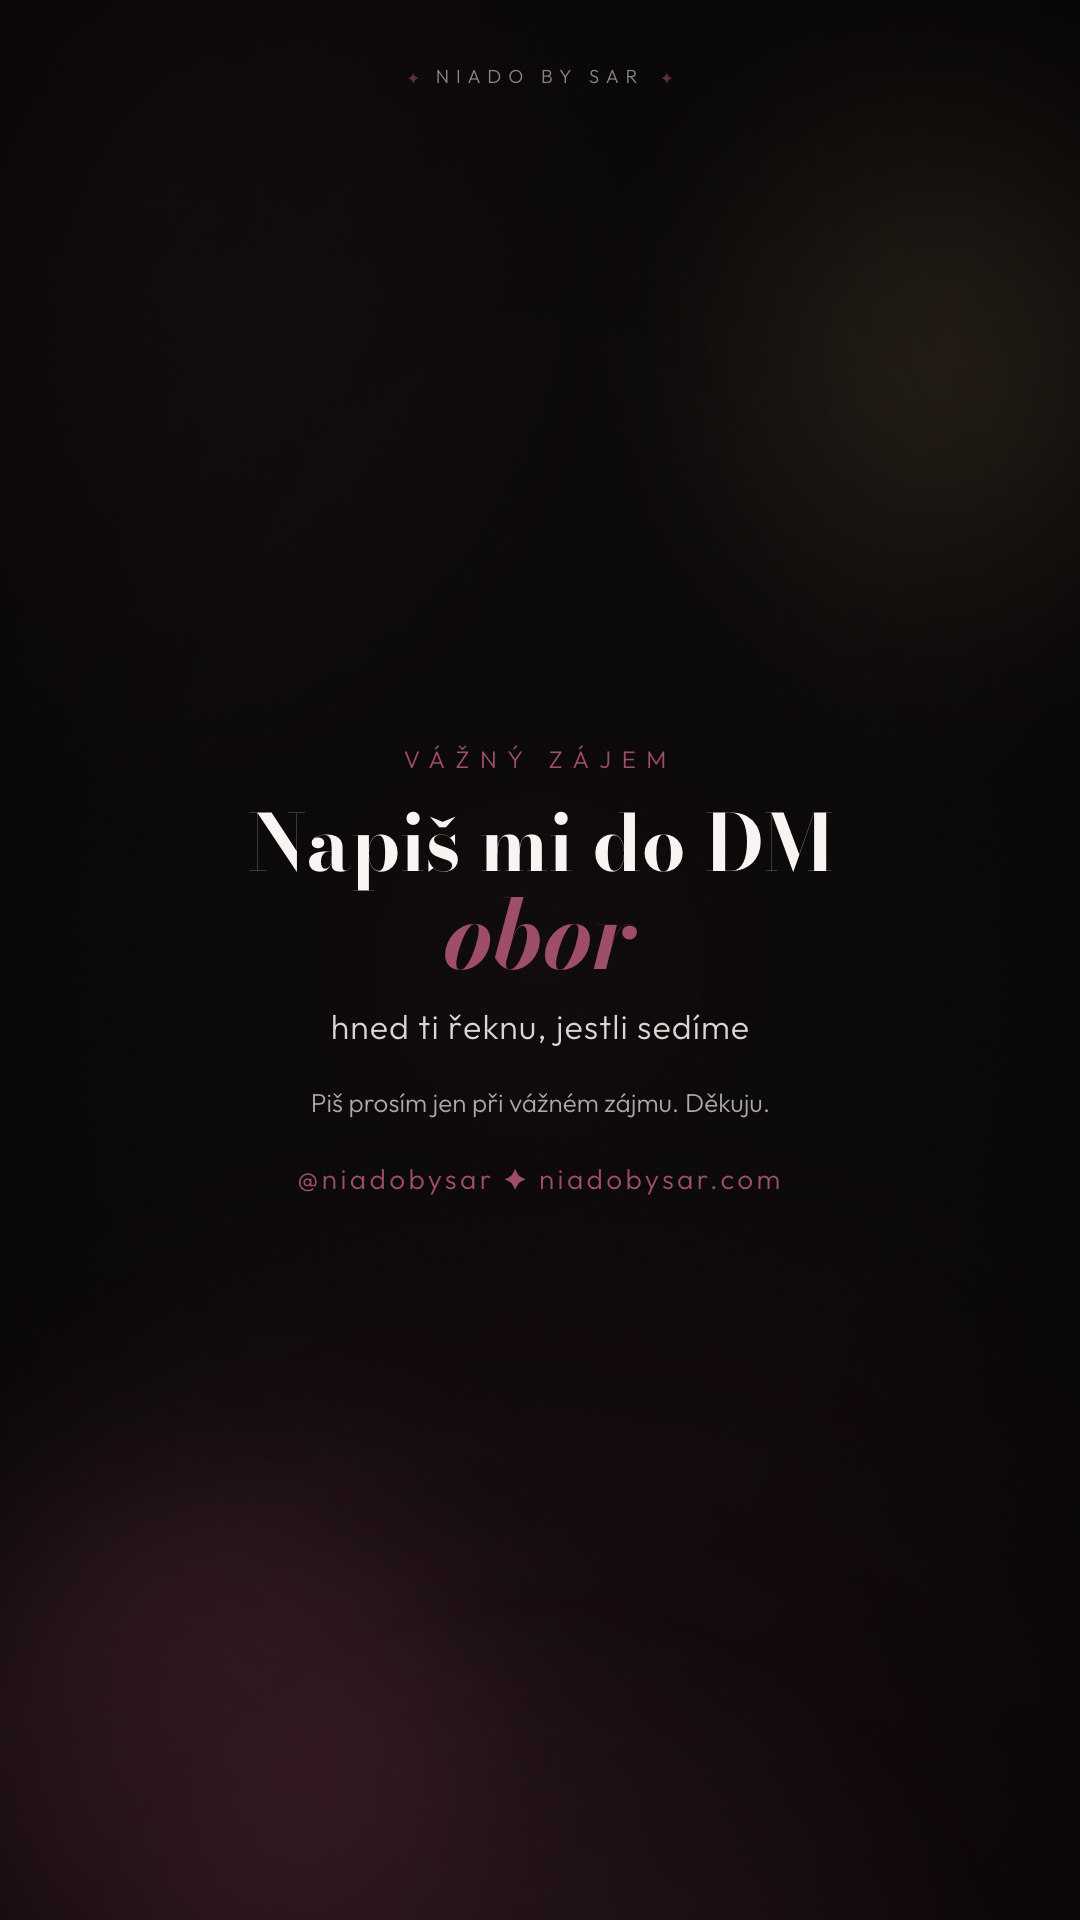
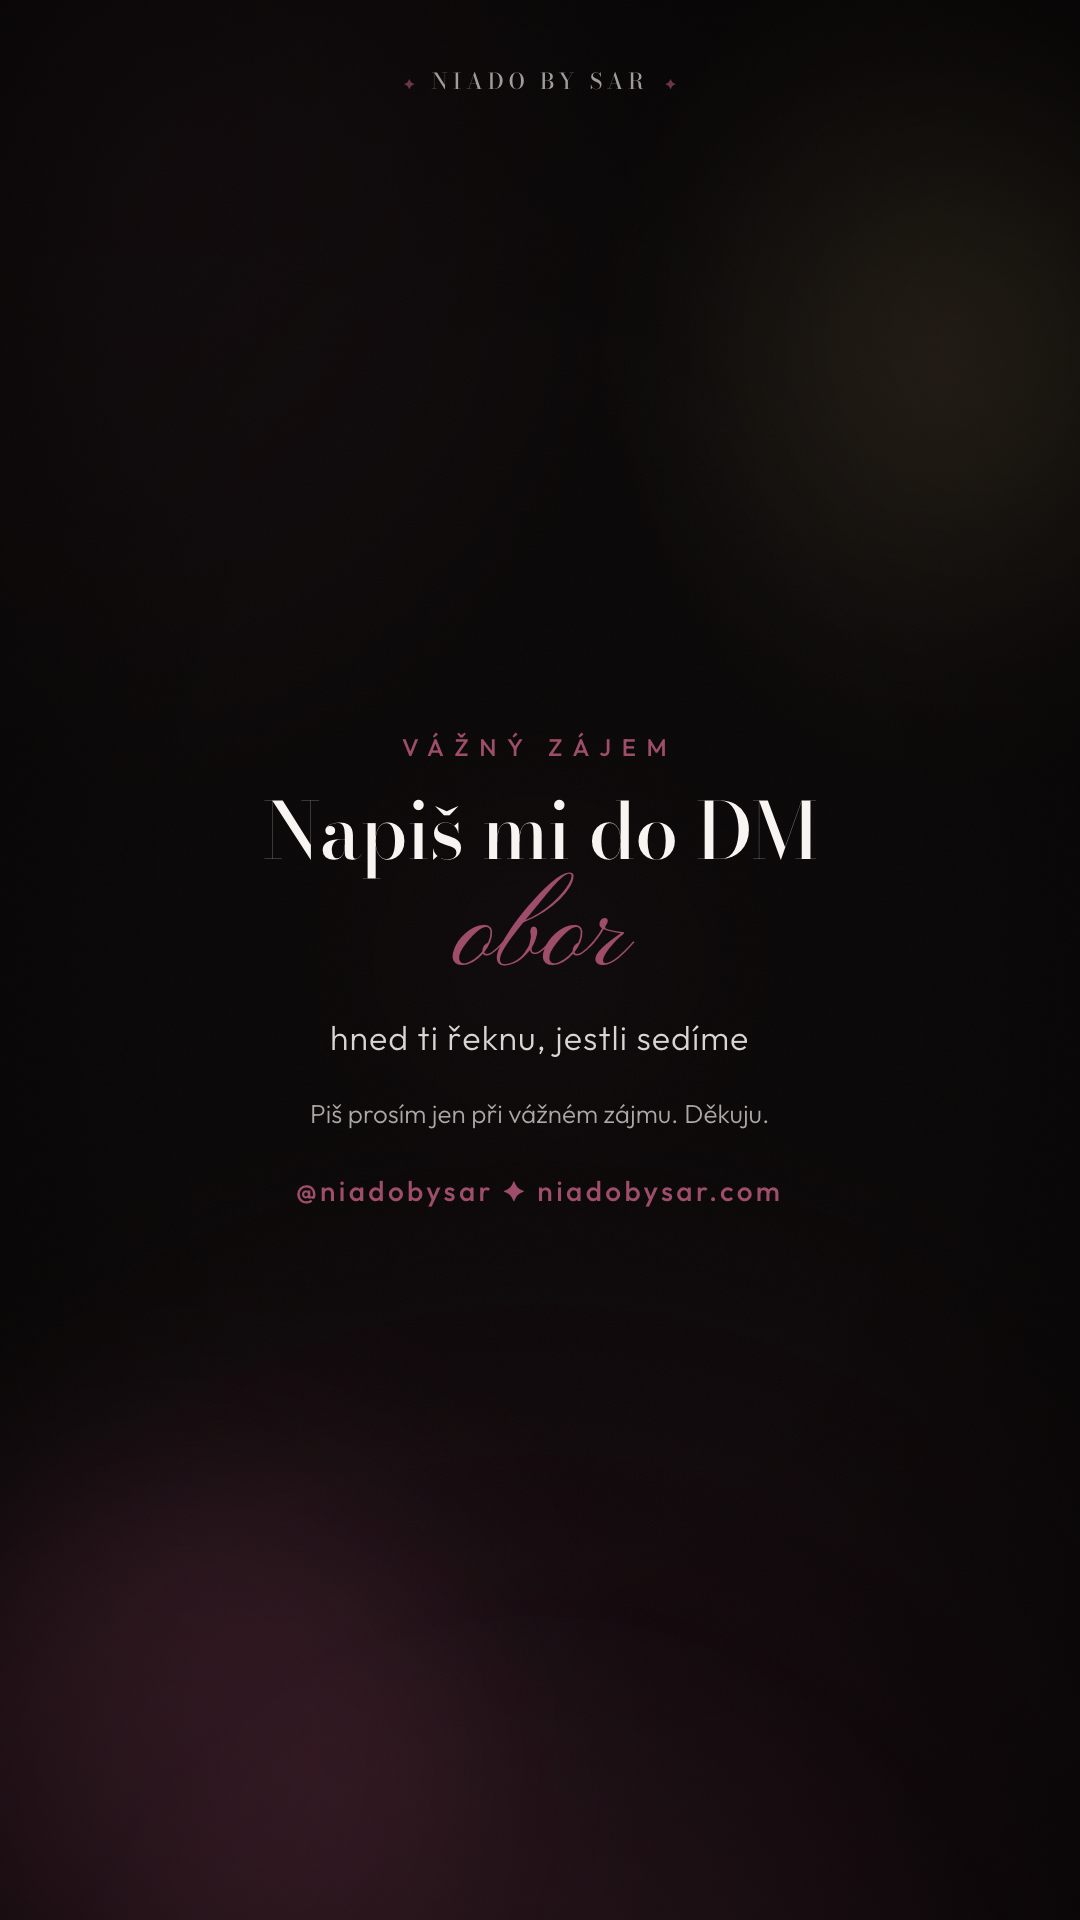
Sjednotit fonty reelu s niadobysar.com (Bodoni 500, Outfit, Pinyon).

diff --git a/reel-portfolio-5/styles.css b/reel-portfolio-5/styles.css
@@ -24,8 +24,8 @@ body {
 }
 
 body {
-  font-family: "Outfit", sans-serif;
-  font-weight: 400;
+  font-family: "Outfit", system-ui, sans-serif;
+  font-weight: 300;
   color: var(--cream);
   -webkit-font-smoothing: antialiased;
 }
@@ -105,11 +105,12 @@ body {
   left: 50%;
   transform: translateX(-50%);
   z-index: 20;
-  font-size: 19px;
-  letter-spacing: 0.36em;
+  font-family: "Bodoni Moda", Georgia, "Times New Roman", serif;
+  font-size: 22px;
+  letter-spacing: 0.22em;
   text-transform: uppercase;
   color: var(--paper);
-  opacity: 0.55;
+  opacity: 0.65;
   font-weight: 500;
   white-space: nowrap;
 }
@@ -204,14 +205,24 @@ body {
 
 h1,
 h2 {
-  font-family: "Bodoni Moda", serif;
+  font-family: "Bodoni Moda", Georgia, "Times New Roman", serif;
   font-weight: 500;
+  letter-spacing: -0.01em;
   line-height: 1.05;
 }
 
 em {
   font-style: italic;
+  font-weight: 500;
   color: var(--cream);
+}
+
+.script {
+  font-family: "Pinyon Script", cursive;
+  font-style: normal;
+  font-weight: 400;
+  letter-spacing: 0;
+  text-transform: none;
 }
 
 .star {
@@ -306,12 +317,13 @@ em {
 #s1 .l2 {
   animation-delay: 0.4s;
   font-size: 118px;
-  font-weight: 700;
+  font-weight: 500;
   color: var(--burg);
   text-shadow: 0 0 60px rgba(158, 77, 106, 0.35);
 }
 
 #s1 .l2 em {
+  font-weight: 500;
   color: var(--burg);
 }
 
@@ -383,7 +395,7 @@ em {
   display: block;
   margin-top: 8px;
   font-size: 110px;
-  font-weight: 700;
+  font-weight: 500;
   color: var(--burg);
   text-shadow: 0 0 50px rgba(158, 77, 106, 0.3);
 }
@@ -680,9 +692,12 @@ em {
   margin-bottom: 20px;
 }
 
-#s7 h2 em {
+#s7 h2 .script {
+  display: block;
+  margin-top: 4px;
   color: var(--burg);
-  font-size: 96px;
+  font-size: 120px;
+  line-height: 1;
 }
 
 .cta-line {

diff --git a/reel-portfolio-5/index.html b/reel-portfolio-5/index.html
@@ -92,7 +92,7 @@
     <div class="scene" id="s7">
       <div class="in cta-box">
         <p class="kicker">vážný zájem</p>
-        <h2>Napiš mi do DM<br><em>obor</em></h2>
+        <h2>Napiš mi do DM<br><span class="script">obor</span></h2>
         <p class="cta-line">hned ti řeknu, jestli sedíme</p>
         <p class="note">Piš prosím jen při vážném zájmu. Děkuju.</p>
         <div class="handle">@niadobysar ✦ niadobysar.com</div>
